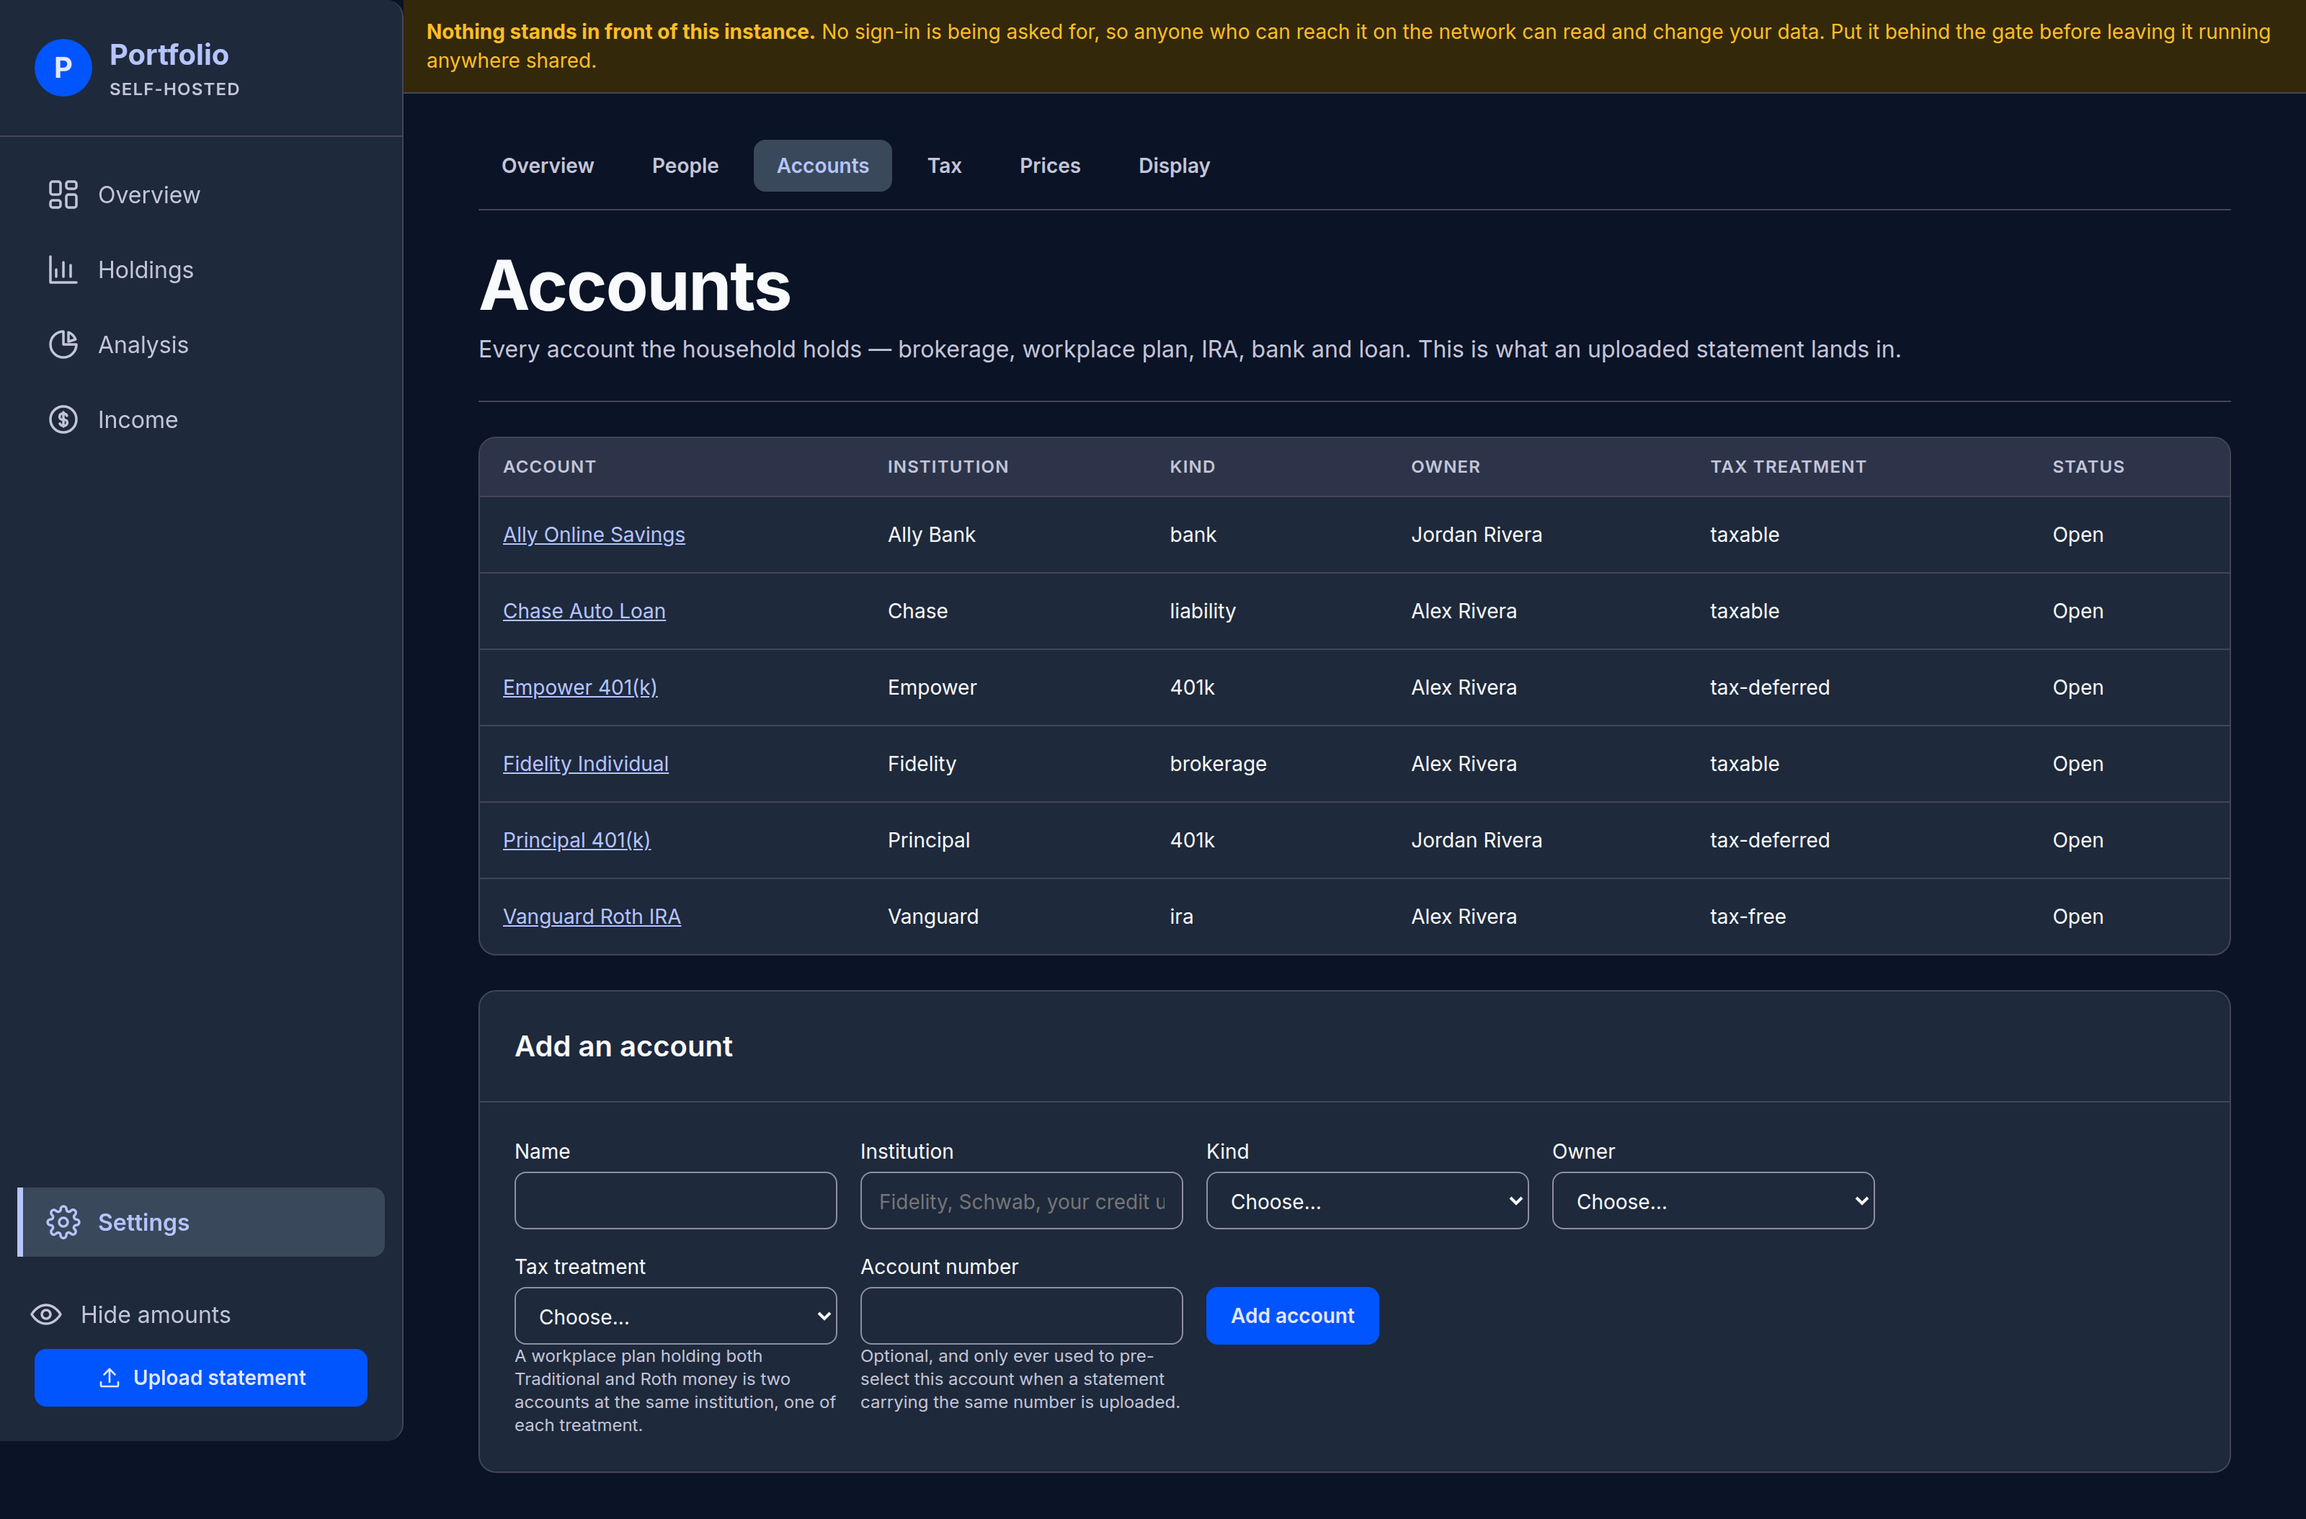
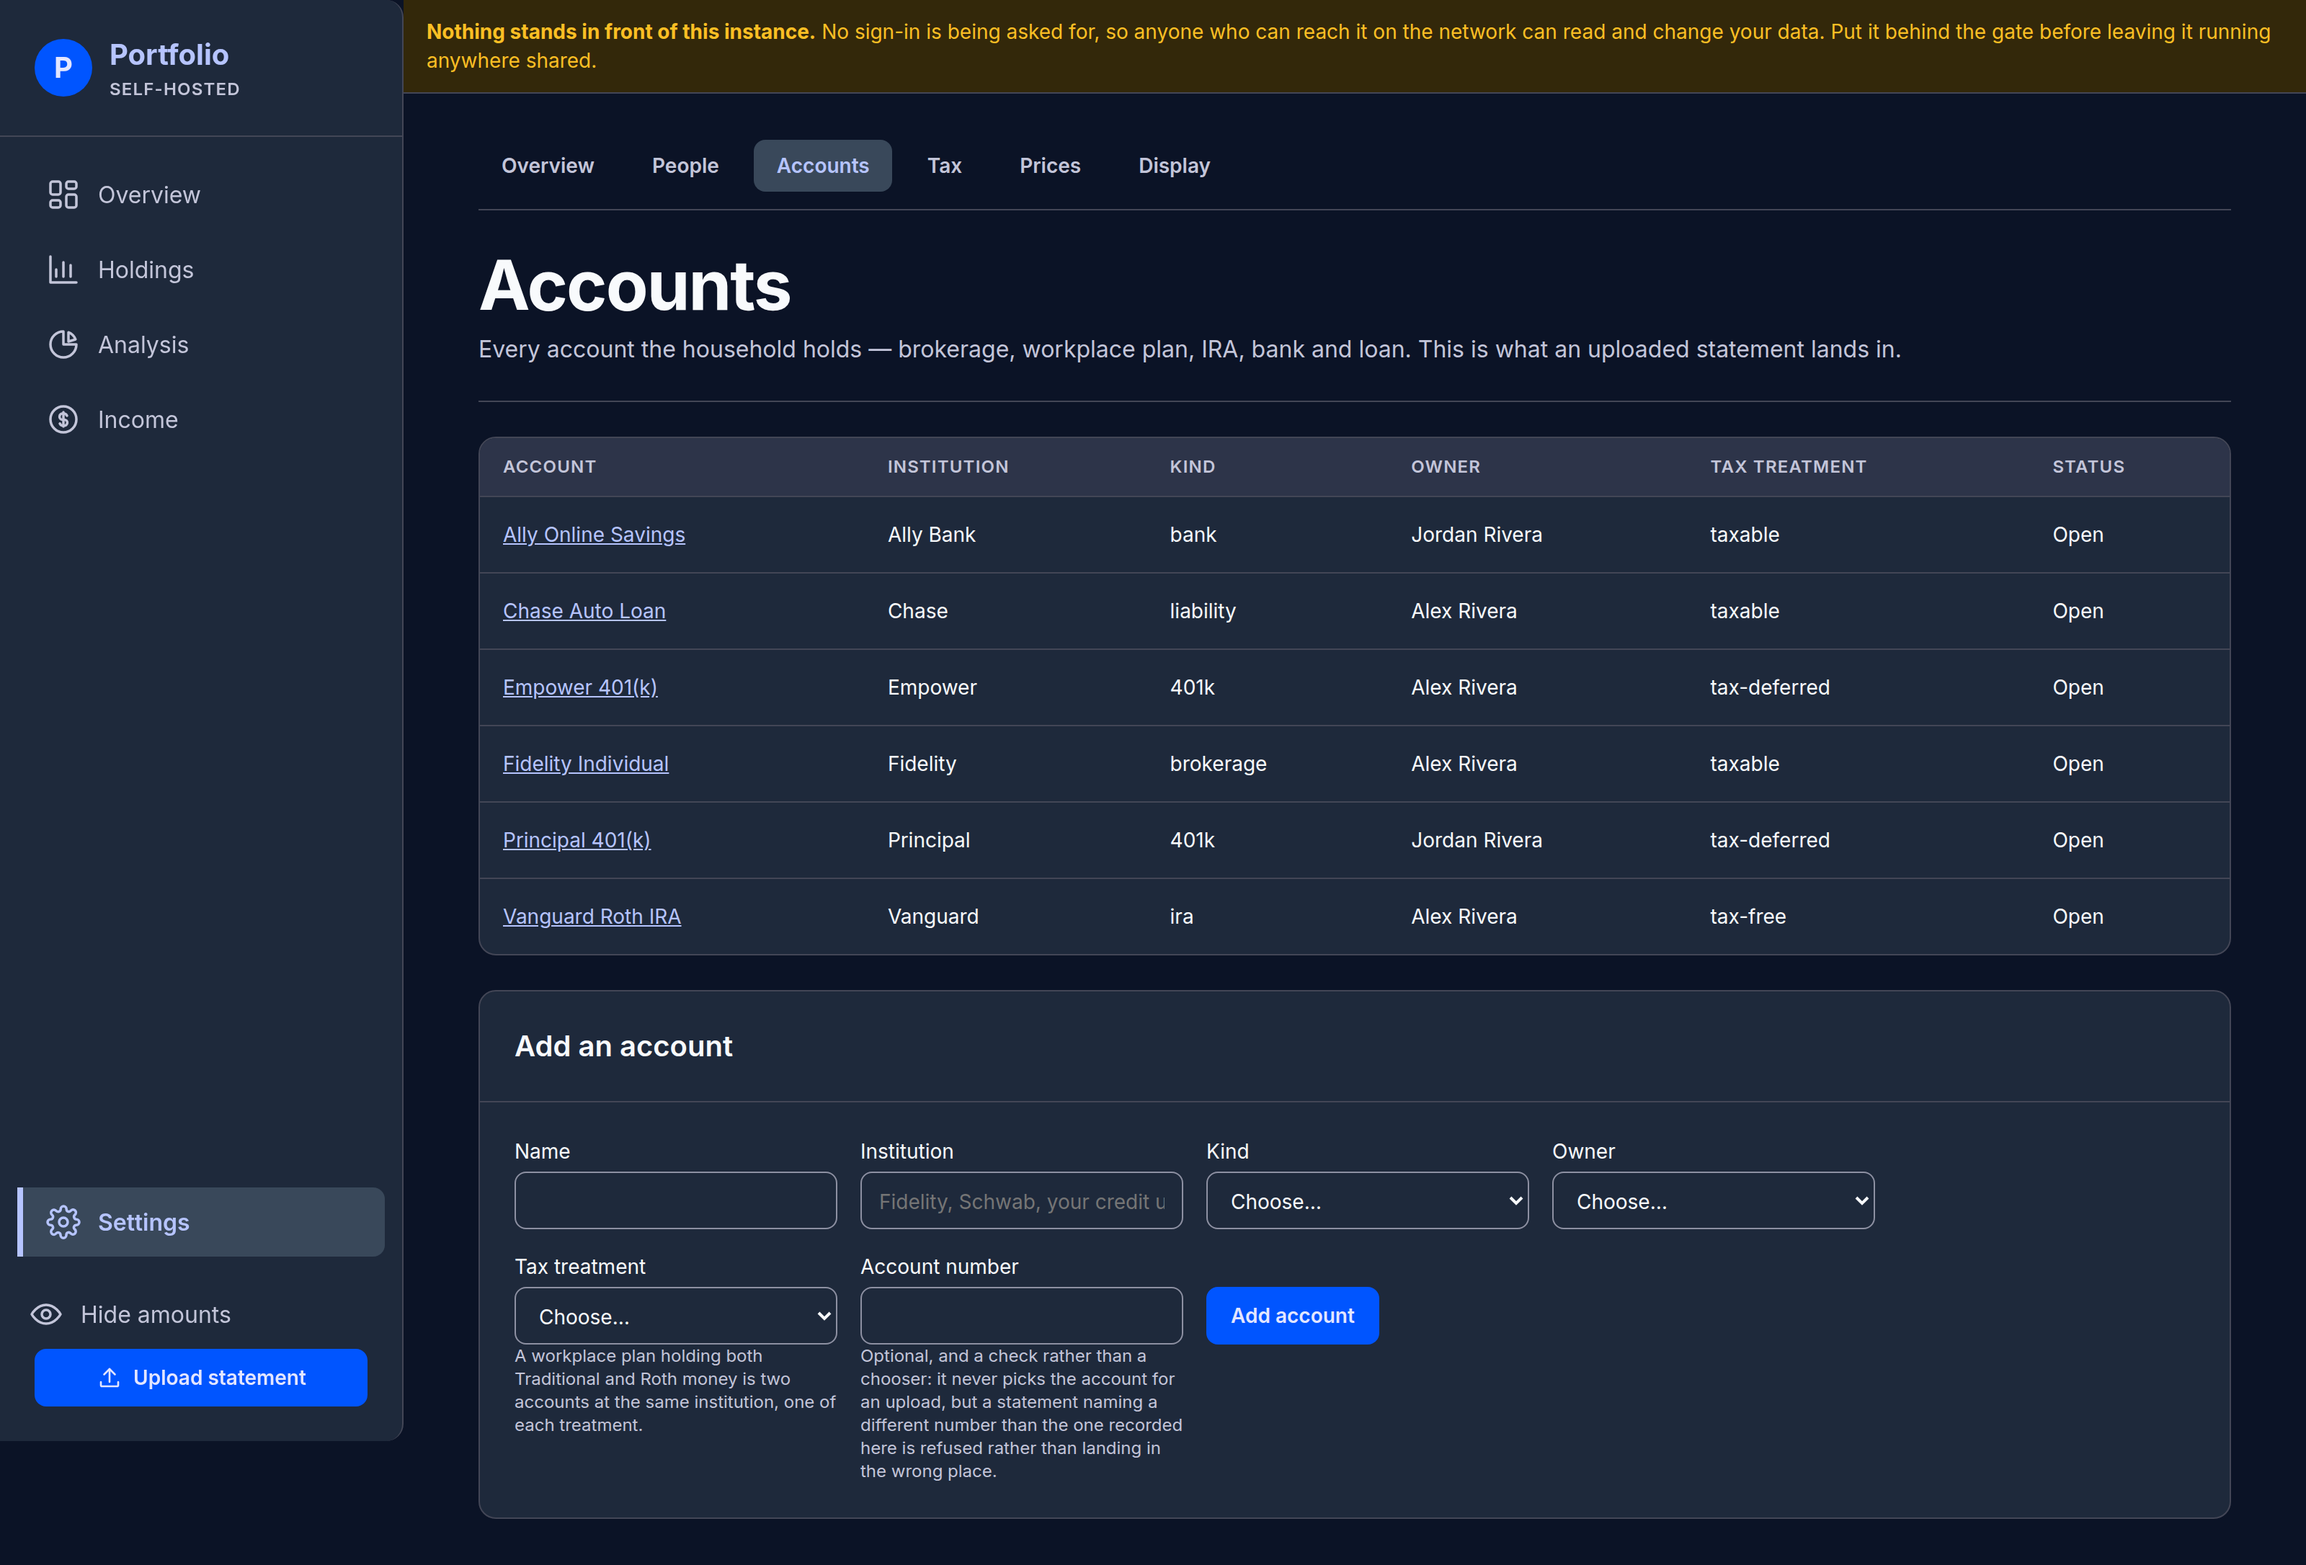
Catch the audit up to the owner-grouped picker
Main's picker change (PR #140) landed between this branch's audit and
its merge, and it moves three things the audit is responsible for.

The captures its screens staled are retaken: the columns and review
steps now carry the identity strip in frame, and the Settings shots
carry the account-number caption the fix reworded — the same rewording
this branch had filed as #141, answered on main before the report
arrived. The drop screen's images came back byte-identical because a
closed select draws no optgroups, which is the capture run verifying
the change's own boundary.

The module map gains account-label.ts, the one new module, in its own
words: labels that say more only when saying less would make a twin.
And six uploads.server.ts and columns.tsx citations move to where the
new fields pushed their symbols.

The merge itself kept both research index sections, newest first.

Claude-Session: https://claude.ai/code/session_01PfERLAXzb64Ex5nuLbEext

diff --git a/ARCHITECTURE.md b/ARCHITECTURE.md
@@ -346,7 +346,7 @@ grep. They come in three tiers.
 - `prices.server.ts:633` (`priceFreshness`) selects from `holding_valued` — not to value anything, but
   to scope the "as of" line to instruments held in an open account, filtered to `price_source =
   'feed'`. It reads `quote.as_of` and counts distinct instruments; it computes no money.
-- `uploads.server.ts:620` (`valueAt`) computes `quantity × price` **in JavaScript**, for the review
+- `uploads.server.ts:640` (`valueAt`) computes `quantity × price` **in JavaScript**, for the review
   diff's Value column — a row the account does not hold yet has no `holding_valued` row to compute it
   in. It deliberately mirrors the view's digits (units of 10⁻¹² divided back to 10⁻⁴, half away from
   zero) and is never summed into a total. This is the one place a valuation figure is produced outside
@@ -661,7 +661,7 @@ answer is a coin flip. Surrogate keys are `bigint generated always as identity` 
 The ordering matches `position_set_account_as_of_idx` exactly, so this is an index scan stopping at
 the first row.
 
-One caller re-states that ordering on purpose. `uploadReceipt` (`uploads.server.ts:1157`) needs the
+One caller re-states that ordering on purpose. `uploadReceipt` (`uploads.server.ts:1180`) needs the
 *predecessor* of a given set — "what did this account hold before this upload landed" — which the
 function cannot express, so it repeats the `order by` with a citation back to it. That is the only
 second copy, and it is the exception that keeps "defined once" meaningful rather than aspirational.
@@ -835,7 +835,7 @@ button and a bookmarked half-finished upload all behave, and it is why the mappi
 delimiter rather than letting a second sniff reach a different verdict.
 
 **Lots are folded twice, for different reasons.** `parseStatement` folds by the *raw string*, so three
-tax-lot rows of one fund collapse into one position. `assembleDiff` (`uploads.server.ts:663`) folds
+tax-lot rows of one fund collapse into one position. `assembleDiff` (`uploads.server.ts:683`) folds
 again by the *resolved instrument*, so two spellings of one fund — `FCASH` and `CASH & CASH
 INVESTMENTS` — collapse once the alias table says they are the same thing. The parser cannot do the
 second fold because it does not know about aliases.
@@ -857,7 +857,7 @@ Two invariants everything downstream leans on:
 
 **`parseStatement` returns refusals as data, not throws.** Each problem carries the row and the column
 that caused it. The *column* is what the screen uses structurally — `problemFieldsOf`
-(`columns.tsx:207`) marks the offending `<select>` as invalid, because remapping is the fix; the row
+(`columns.tsx:213`) marks the offending `<select>` as invalid, because remapping is the fix; the row
 travels inside the message the reader sees ("on line 12"). A thrown error could name only the first
 fault, and a screen cannot point at a stack trace.
 
@@ -1026,7 +1026,7 @@ Three of those deserve emphasis:
 **The account number is a guard, never a selector.** A file naming an account different from the one
 the draft targets is refused; it is never silently rerouted to the account it names. It is also
 *captured*, inside the same transaction: when the account has no number recorded and the committed
-file carries one, the commit writes it onto the account (`uploads.server.ts:1101-1105`, guarded by
+file carries one, the commit writes it onto the account (`uploads.server.ts:1123-1129`, guarded by
 `where external_account_number is null` so a concurrent upload cannot be overwritten). The guard arms
 itself on the first upload, and every later statement is checked against it.
 
@@ -1327,7 +1327,7 @@ set, no holding — and "nothing landed" is what becomes the refusal.
 
 **Why `setBalance` cannot trust the kind its own form was mounted from.** The panel is drawn from
 `account.kind` alone (`account.tsx:215`), and a `bank` account can be holding securities with no kind
-change behind it — `createDraft` (`uploads.server.ts:205`) reads only whether the account is closed,
+change behind it — `createDraft` (`uploads.server.ts:218`) reads only whether the account is closed,
 so an upload lands wherever it is pointed. Hiding the panel in that state would leave the page with
 no write control and nothing saying why; drawing it earns a refusal that names what is in the way.
 
@@ -1885,6 +1885,7 @@ still live in the current code:
 | `current-statement.server.ts` | **The one reader of what an account holds now**, for the two writers that act on the difference between that and `kind`, and the one place the seeded `USD` row is resolved. A leaf: it imports the database handle and nothing else in `app/lib`, so neither writer meets a cycle reaching for it |
 | `people.server.ts` | People. A person owning no account can be removed outright; one who owns any is refused, naming them |
 | `account-options.ts` | The account-kind and tax-treatment vocabulary the forms are built from, and the two predicates read off a kind: which hold their whole position in one number, which run negative. Pure, and in the client bundle |
+| `account-label.ts` | The upload picker's labels — grouped by owner, quiet until two rows would read the same: a row says more (number tail, then institution and type, then tax treatment) only when saying less would make it a twin, and rows identical in every stored attribute render identically, honestly. Pure, because the one piece of that screen with rules in it has to be testable without importing a route |
 | `settings.server.ts` | The capital gains rate |
 | `first-run.server.ts` | One question, three answers |
 | `input.server.ts` | `ValidationError`, `parseInput`, the shared field shapes, and the one phrase-builder the refusals that name a list share |
